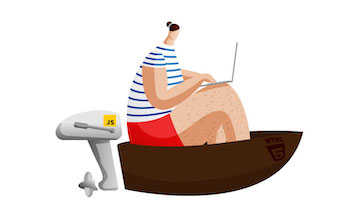
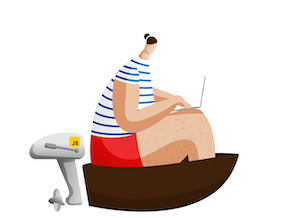
update content

Changed region(s): [[0.09, 0.0826, 0.87, 0.9908]]

diff --git a/content/portfolio/character_animation/character_animation.md b/content/portfolio/character_animation/character_animation.md
@@ -17,7 +17,7 @@ It all started with an illustration following an incredible tutorial by "Cricket
 
 It looked pretty cool already, but I decided to lose the fishing rod and add a computer as well as a motor.
 
-![img](./man_v2.png)
+![img](./man_v3.jpg)
 
 From there, I started building up the different exported layers of the illustration into an HTML file and pieced it back together with CSS. All vallues are percentages, so that the size can be dynamic.
 
@@ -29,6 +29,6 @@ Using CSS `@keyframes` and `transition: transform()` extensively, I figured out 
 
 Now the guy starts off by opening the laptop, the motor starts going, driving the boat forward. At this point the animation loops and he'll go on forever. How cool is that?! 🤓🥳
 
-![img](./man_v2.gif)
+![img](./man_v3_lq.gif)
 
 ---
